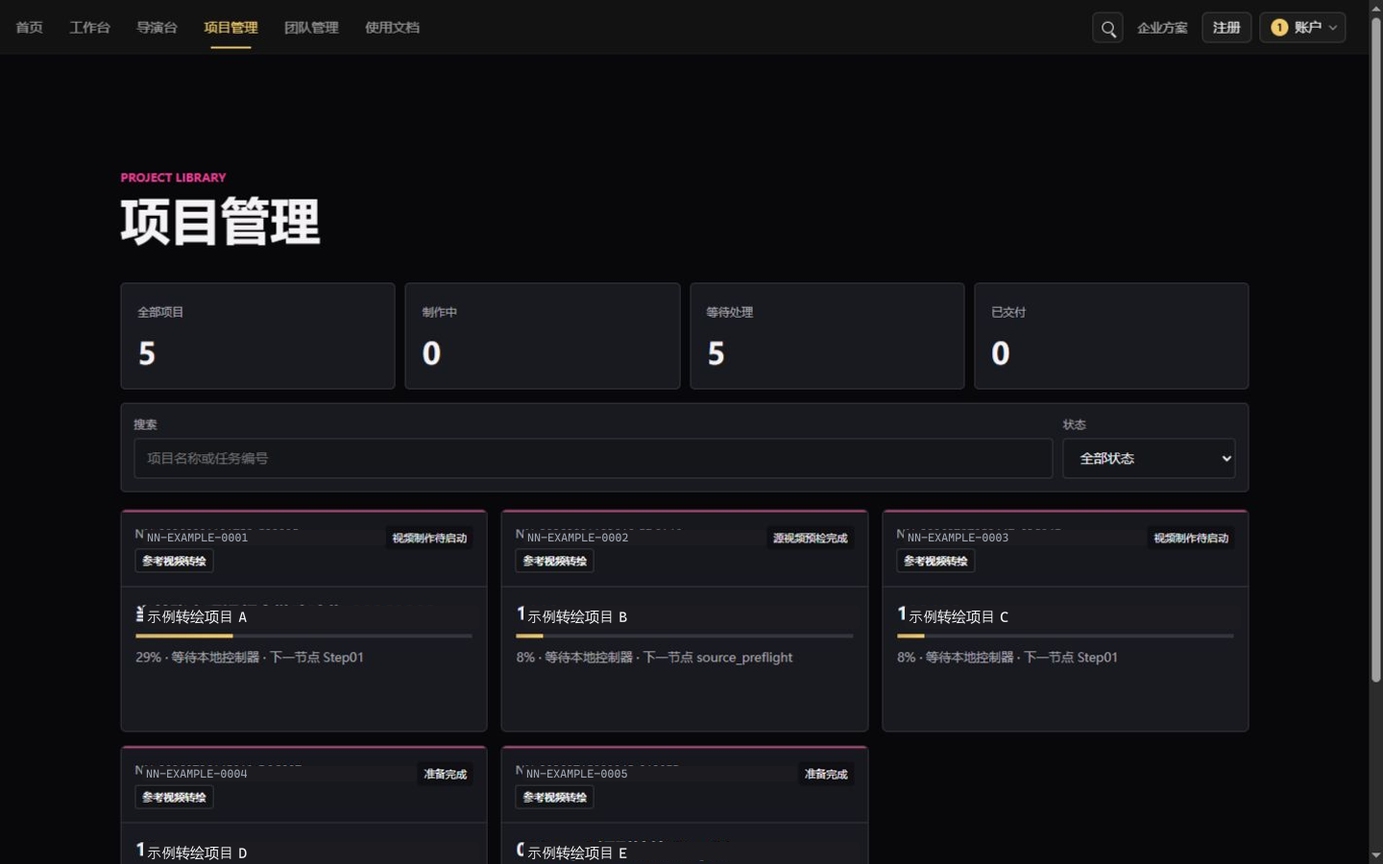
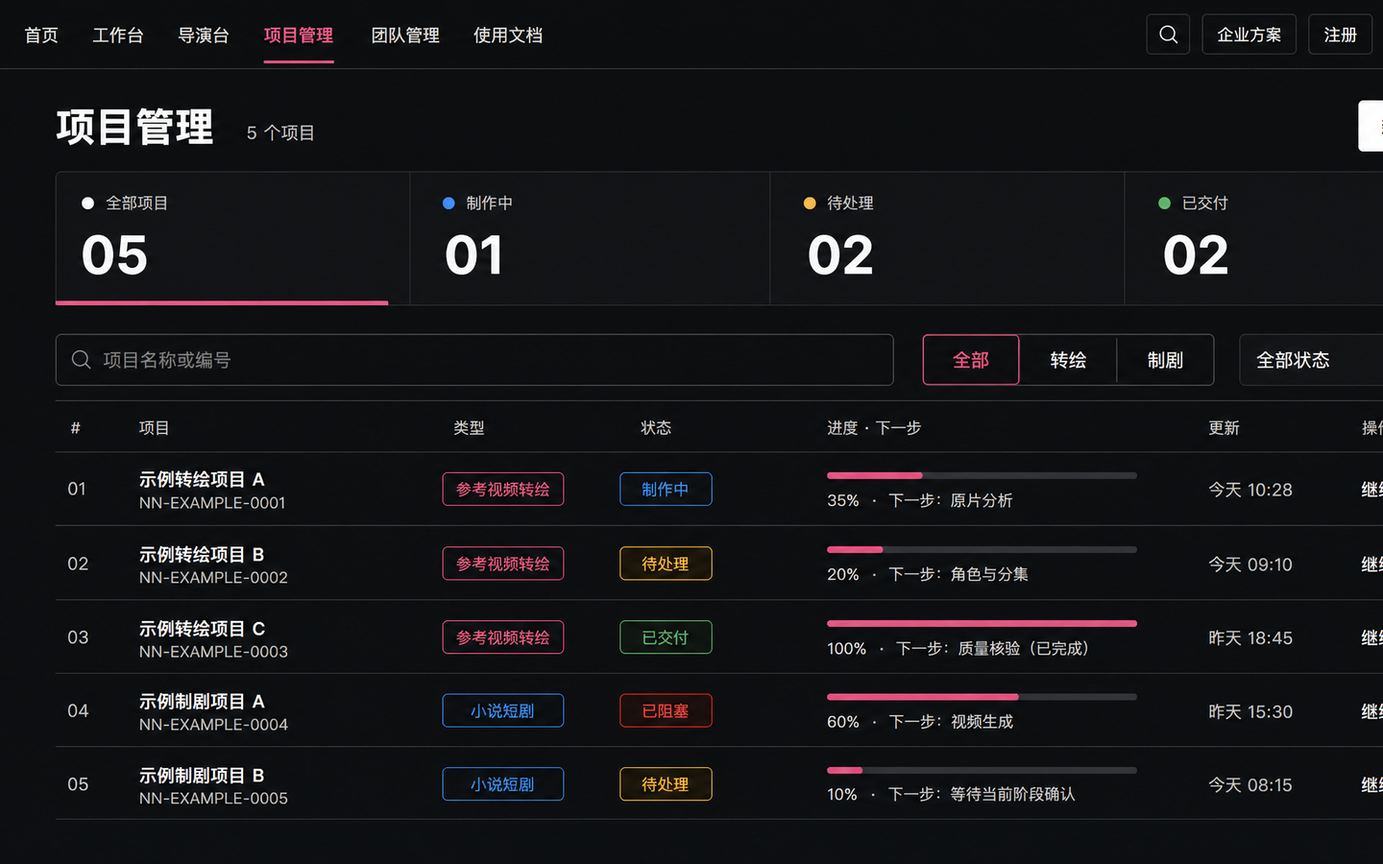
feat(frontend): redesign project management hub as production call-sheet board
- 项目库从通用 SaaS 卡片瀑布改为高密度生产通告单看板
- 紧凑头部 + 唯一主动作「新建项目」+ 真实项目总数
- 四段可点击生产计数条（全部/制作中/待处理/已交付）
- 毛线工具条：搜索 + 类型分段（全部/转绘/制剧）+ 状态筛选
- 通告单式行表：序号/身份/类型/状态点/细进度轨/业务下一步/更新时间/继续动作
- 状态与下一步改为业务语言，移除内部节点/渠道名词
- 桌面 1440x900 与移动 390x844 真实浏览器验证无横向溢出
- 01-project-hub 权威目标图由 yunfei-hd 2K 重绘入库
- 更新施工图阶段 3 状态与目标图对照表

Closes #60

diff --git a/product-system.css b/product-system.css
@@ -390,3 +390,126 @@ button:focus-visible, a:focus-visible, input:focus-visible, select:focus-visible
   .docs-quick-nav { overflow-x: auto; flex-wrap: nowrap; padding: 8px; }
   .docs-quick-nav button { flex: 0 0 auto; }
 }
+
+/* ============================================================
+ * Project hub r2 — production call-sheet board
+ * Hallmark · macrostructure: high-density production board · theme: system tokens
+ * Impeccable shape: Operate · variance 8 · motion 3 · density 8
+ * ============================================================ */
+:root {
+  --nn-status-running: #71a7ef;
+  --nn-status-ready: #5ecb91;
+  --nn-status-waiting: #e8b45c;
+  --nn-status-blocked: #ee6a6a;
+}
+
+.project-hub-shell { padding-top: 34px; }
+.project-hub-header { display: flex; align-items: flex-end; justify-content: space-between; gap: 16px 24px; margin-bottom: 22px; }
+.project-hub-title { display: flex; align-items: baseline; gap: 12px; min-width: 0; }
+.project-hub-title h2 { margin: 0; font-family: var(--nn-font-display); font-size: 30px; font-weight: 760; line-height: 1.1; letter-spacing: 0; }
+.project-hub-total { color: var(--nn-text-quiet); font-size: 13px; font-variant-numeric: tabular-nums; white-space: nowrap; }
+#projectHubTotal[hidden] { display: none !important; }
+.project-hub-actions { flex: 0 0 auto; }
+.project-new-button { min-height: 42px; padding: 0 16px; border-radius: 5px; background: #fff; color: #101114; font-size: 13px; font-weight: 650; box-shadow: none; }
+.project-new-button:hover, .project-new-button:focus-visible { background: #e9e7ea; color: #101114; }
+
+.project-count-strip { display: grid; grid-template-columns: repeat(4, minmax(0, 1fr)); margin-bottom: 14px; overflow: hidden; border: 1px solid var(--nn-line); border-radius: 6px; background: var(--nn-panel); }
+.pcs-item { position: relative; min-height: 88px; display: grid; align-content: center; gap: 8px; padding: 14px 20px; border: 0; border-right: 1px solid var(--nn-line); border-radius: 0; background: transparent; color: var(--nn-text-muted); text-align: left; transition: background-color 180ms ease; }
+.pcs-item:last-child { border-right: 0; }
+.pcs-item span { display: inline-flex; align-items: center; gap: 8px; color: var(--nn-text-muted); font-size: 12px; }
+.pcs-item span::before { content: ""; width: 7px; height: 7px; border-radius: 50%; background: var(--nn-text-quiet); }
+.pcs-item strong { color: var(--nn-text); font-family: var(--nn-font-display); font-size: 30px; font-weight: 650; line-height: 1; font-variant-numeric: tabular-nums; }
+.pcs-item:hover, .pcs-item:focus-visible { background: var(--nn-panel-raised); color: var(--nn-text); }
+.pcs-item.is-active { background: var(--nn-panel-raised); }
+.pcs-item.is-active::after { content: ""; position: absolute; right: 20px; bottom: 0; left: 20px; height: 2px; background: var(--nn-accent); }
+.pcs-item[data-count-filter="running"] span::before { background: var(--nn-status-running); }
+.pcs-item[data-count-filter="queued"] span::before { background: var(--nn-status-waiting); }
+.pcs-item[data-count-filter="completed"] span::before { background: var(--nn-status-ready); }
+.pcs-item[data-count-filter="all"] span::before { background: var(--nn-text); }
+
+.project-toolbar { display: flex; align-items: flex-end; gap: 10px; margin-bottom: 0; padding: 0 0 12px; border: 0; border-bottom: 1px solid var(--nn-line); border-radius: 0; background: transparent; }
+.project-search { position: relative; display: grid; gap: 0; flex: 1 1 320px; min-width: 220px; }
+.project-search-icon { position: absolute; top: 50%; left: 12px; transform: translateY(-50%); color: var(--nn-text-quiet); pointer-events: none; }
+.project-search input { width: 100%; height: 42px; padding: 0 13px 0 34px; border: 1px solid var(--nn-line); border-radius: 5px; background: var(--nn-panel); color: var(--nn-text); font-size: 14px; }
+.project-search input:focus { border-color: var(--nn-accent); }
+.project-filter { display: grid; gap: 7px; }
+.project-filter span { color: var(--nn-text-muted); font-size: 12px; }
+.project-filter select { height: 42px; min-width: 150px; padding: 0 30px 0 12px; border: 1px solid var(--nn-line); border-radius: 5px; background: var(--nn-panel); color: var(--nn-text); font-size: 14px; }
+.project-type-switch { display: inline-flex; align-items: center; gap: 2px; height: 42px; padding: 3px; border: 1px solid var(--nn-line); border-radius: 5px; background: var(--nn-panel); }
+.project-type-switch button { min-height: 34px; padding: 0 12px; border: 0; border-radius: 3px; background: transparent; color: var(--nn-text-muted); font-size: 13px; }
+.project-type-switch button:hover, .project-type-switch button:focus-visible { color: var(--nn-text); }
+.project-type-switch button.is-active { background: var(--nn-accent-soft); color: #fff; }
+.project-type-switch .project-type-source { position: absolute; width: 1px; height: 1px; padding: 0; margin: -1px; overflow: hidden; clip: rect(0, 0, 0, 0); white-space: nowrap; border: 0; }
+
+.project-board { display: grid; }
+.project-board > .public-access-panel { margin-top: 14px; }
+.project-board-head, .project-board-row { display: grid; grid-template-columns: 52px minmax(230px, 1.35fr) 112px 150px minmax(230px, 1.35fr) 92px 104px; gap: 10px; align-items: center; }
+.project-board-head { min-height: 40px; padding: 0 16px; border-bottom: 1px solid var(--nn-line); color: var(--nn-text-quiet); font-size: 11px; }
+.project-board-head span { overflow: hidden; text-overflow: ellipsis; white-space: nowrap; }
+.project-board-row { position: relative; min-height: 74px; width: 100%; margin: 0; padding: 0 16px; border: 0; border-bottom: 1px solid var(--nn-line); border-radius: 0; background: transparent; color: var(--nn-text); text-align: left; box-shadow: inset 0 0 0 0 transparent; transition: background-color 180ms ease, box-shadow 180ms ease; }
+.project-board-row:last-child { border-bottom: 0; }
+.project-board-row:hover, .project-board-row:focus-visible { background: var(--nn-panel-raised); box-shadow: inset 3px 0 0 var(--nn-accent); }
+.pbr-index { color: var(--nn-text-quiet); font-size: 12px; font-variant-numeric: tabular-nums; }
+.pbr-identity { display: grid; gap: 5px; min-width: 0; }
+.pbr-identity strong { overflow: hidden; color: var(--nn-text); font-size: 15px; font-weight: 650; line-height: 1.35; text-overflow: ellipsis; white-space: nowrap; }
+.pbr-identity small { overflow: hidden; color: var(--nn-text-quiet); font-size: 11px; font-variant-numeric: tabular-nums; text-overflow: ellipsis; white-space: nowrap; }
+.pbr-type { justify-self: start; padding: 4px 8px; border: 1px solid var(--nn-line-strong); border-radius: 4px; color: var(--nn-text-muted); font-size: 11px; white-space: nowrap; }
+.pbr-type.is-redraw { border-color: rgba(242, 59, 167, .38); color: #e79ac3; }
+.pbr-type.is-script { border-color: rgba(113, 167, 239, .38); color: #9ec2ef; }
+.pbr-status { justify-self: start; }
+.project-board .production-status-pill { min-height: 23px; padding: 0 8px; border-radius: 4px; font-size: 12px; font-variant-numeric: tabular-nums; }
+.project-board .production-status-pill.is-ready { border-color: rgba(94, 203, 145, .35); background: rgba(94, 203, 145, .12); color: var(--nn-status-ready); }
+.project-board .production-status-pill.is-running { border-color: rgba(113, 167, 239, .35); background: rgba(113, 167, 239, .12); color: var(--nn-status-running); }
+.project-board .production-status-pill.is-waiting { border-color: rgba(232, 180, 92, .35); background: rgba(232, 180, 92, .12); color: var(--nn-status-waiting); }
+.project-board .production-status-pill.is-blocked { border-color: rgba(238, 106, 106, .38); background: rgba(238, 106, 106, .12); color: var(--nn-status-blocked); }
+.pbr-progress { display: grid; gap: 7px; min-width: 0; }
+.pbr-rail { display: block; width: 100%; height: 4px; overflow: hidden; border-radius: 0; background: #34353d; }
+.pbr-rail i { display: block; height: 100%; background: var(--nn-status-running); }
+.project-board-row.is-row-complete .pbr-rail i { background: var(--nn-status-ready); }
+.project-board-row.is-row-waiting .pbr-rail i { background: var(--nn-status-waiting); }
+.project-board-row.is-row-blocked .pbr-rail i { background: var(--nn-status-blocked); }
+.pbr-progress small { overflow: hidden; color: var(--nn-text-muted); font-size: 12px; line-height: 1.45; text-overflow: ellipsis; white-space: nowrap; }
+.pbr-time { color: var(--nn-text-quiet); font-size: 12px; font-variant-numeric: tabular-nums; white-space: nowrap; }
+.pbr-action { justify-self: end; display: inline-flex; align-items: center; gap: 7px; color: var(--nn-text); font-size: 13px; font-weight: 500; white-space: nowrap; }
+.pbr-action b { color: var(--nn-accent); font-weight: 600; }
+.project-board-row:hover .pbr-action b, .project-board-row:focus-visible .pbr-action b { transform: translateX(2px); }
+
+.project-empty { min-height: 300px; display: grid; place-content: center; justify-items: center; gap: 10px; margin-top: 14px; padding: 40px 20px; border: 1px dashed var(--nn-line-strong); border-radius: 6px; color: var(--nn-text-muted); text-align: center; }
+.project-empty strong { color: var(--nn-text); font-size: 20px; }
+.project-empty span { max-width: 44ch; font-size: 13px; line-height: 1.6; }
+.project-empty-action { min-height: 40px; margin-top: 8px; padding: 0 14px; border-radius: 5px; background: var(--nn-accent); color: #fff; font-size: 13px; }
+.project-empty-action:hover, .project-empty-action:focus-visible { background: #e35492; }
+
+@media (max-width: 1080px) {
+  .project-board-head, .project-board-row { grid-template-columns: 44px minmax(200px, 1.2fr) 104px 140px minmax(200px, 1.2fr) 76px 92px; }
+}
+@media (max-width: 900px) {
+  .project-count-strip { grid-template-columns: repeat(2, minmax(0, 1fr)); }
+  .pcs-item:nth-child(2) { border-right: 0; }
+  .pcs-item:nth-child(-n + 2) { border-bottom: 1px solid var(--nn-line); }
+  .project-toolbar { flex-wrap: wrap; }
+}
+@media (max-width: 640px) {
+  .project-hub-shell { width: calc(100% - 28px); padding-top: 26px; }
+  .project-hub-header { align-items: center; }
+  .project-hub-title h2 { font-size: 25px; }
+  .project-hub-total { display: none; }
+  .project-new-button { min-height: 40px; padding: 0 13px; }
+  .project-toolbar { align-items: stretch; flex-direction: column; }
+  .project-search { flex: 1 1 auto; }
+  .project-filter, .project-filter select { width: 100%; }
+  .project-type-switch { align-self: stretch; }
+  .project-type-switch button { flex: 1 1 0; }
+  .project-board-head { display: none; }
+  .project-board-row { grid-template-columns: minmax(0, 1fr); grid-template-areas: "index identity" "type status" "progress progress" "time time" "action action"; gap: 9px; align-items: start; padding: 16px 4px; }
+  .pbr-index { grid-area: index; padding-top: 2px; }
+  .pbr-identity { grid-area: identity; }
+  .pbr-type { grid-area: type; }
+  .pbr-status { grid-area: status; justify-self: end; }
+  .pbr-progress { grid-area: progress; }
+  .pbr-progress small { white-space: normal; }
+  .pbr-time { grid-area: time; }
+  .pbr-action { grid-area: action; min-height: 42px; justify-content: center; width: 100%; margin-top: 2px; border: 1px solid var(--nn-line-strong); border-radius: 5px; background: var(--nn-panel); }
+  .pbr-action b { transform: none; }
+  .project-empty { min-height: 260px; }
+}

diff --git a/mvp-step02-r13.js b/mvp-step02-r13.js
@@ -704,6 +704,8 @@
       queued: allProjects.filter(project => statusBucket(project) === 'queued').length,
       completed: allProjects.filter(project => statusBucket(project) === 'completed').length
     };
+    const hubTotal = document.getElementById('projectHubTotal');
+    if (hubTotal) hubTotal.textContent = counts.total + ' 个项目';
     Object.entries(counts).forEach(([key, value]) => {
       const node = document.querySelector('[data-summary="' + key + '"]');
       if (node) node.textContent = value;
@@ -716,6 +718,8 @@
     if (projectSummary) projectSummary.hidden = signedOut;
     if (projectToolbar) projectToolbar.hidden = signedOut;
     if (projectCreateActions) projectCreateActions.hidden = signedOut;
+    const hubTotal = document.getElementById('projectHubTotal');
+    if (hubTotal) hubTotal.hidden = signedOut;
     if (signedOut) {
       list.innerHTML = '<section class="public-access-panel public-project-access" aria-label="项目库访问说明"><div class="public-access-copy"><span class="eyebrow">PRIVATE PROJECT LIBRARY</span><h3>登录后管理你的项目</h3><p>登录后查看当前账户的短剧项目、制作状态和交付版本。</p><div class="public-access-actions"><button class="page-action" type="button" data-open-auth-login>登录进入项目库</button><button class="workbench-quiet-action" type="button" data-view="workbench">先选择制作路径</button></div></div><dl class="public-access-facts"><div><dt>项目</dt><dd>按当前工作区隔离</dd></div><div><dt>进度</dt><dd>只显示真实制作状态</dd></div><div><dt>交付</dt><dd>通过质量门后可下载</dd></div></dl></section>';
       return;
@@ -739,31 +743,84 @@
       return matchesText && matchesType && matchesStatus;
     });
     if (!rows.length) {
-      list.innerHTML = '<div class="project-empty"><strong>还没有匹配的项目</strong><span>创建项目后，它会出现在这里并从当前质量门继续。</span></div>';
+      const filtered = Boolean(query || selected !== 'all' || selectedType !== 'all');
+      list.innerHTML = filtered
+        ? '<div class="project-empty"><strong>没有匹配当前筛选的项目</strong><span>调整搜索或筛选条件后重试。</span><button class="project-empty-action" type="button" data-project-clear-filter>清除筛选</button></div>'
+        : '<div class="project-empty"><strong>还没有项目</strong><span>创建项目后，它会出现在这里并从当前质量门继续。</span><button class="project-empty-action" type="button" data-view="workbench">去创建第一个项目</button></div>';
       renderSummary();
       return;
     }
-    list.innerHTML = rows.map(project => {
+    syncProjectCountStrip(selected);
+    syncProjectTypeSwitch(selectedType);
+    list.innerHTML = '<div class="project-board-head" aria-hidden="true"><span>#</span><span>项目</span><span>类型</span><span>状态</span><span>进度 · 下一步</span><span>更新</span><span></span></div>' + rows.map((project, index) => {
       const runtime = project.runtime || {};
       const isScript = project.projectKind === 'script';
       const scriptStage = Number(scriptStageForNode(runtime.currentNode, runtime.earliestIncompleteNode));
       const progress = isScript ? Math.max(0, (scriptStage - 1) * 25) : stepProgress(project);
       const projectStatus = projectStatusLabel(project);
-      const sourceSummary = isScript
-        ? (project.source?.type === 'docx' ? (project.source.originalName || 'Word 剧本') : '小说或剧本文本')
-        : (project.replacementBrief || '');
-      const nextNode = isScript
-        ? (runtime.currentNode || runtime.earliestIncompleteNode || 'N00')
-        : (project.route?.earliestNode || runtime.currentNode || 'Step01');
+      const semanticStatus = String(project.autoRedraw?.status || project.runtime?.productionStatus || project.status || '').toLowerCase();
+      const rowTone = /completed|accepted|sent|verified/.test(semanticStatus) ? 'is-row-complete'
+        : (/blocked|failed|infra_failed/.test(semanticStatus) ? 'is-row-blocked'
+          : (/running|claimed|sync|qa_running/.test(semanticStatus) ? 'is-row-running' : 'is-row-waiting'));
+      const pillTone = rowTone === 'is-row-complete' ? 'is-ready'
+        : (rowTone === 'is-row-blocked' ? 'is-blocked'
+          : (rowTone === 'is-row-running' ? 'is-running' : 'is-waiting'));
       const cardAction = isScript ? 'data-script-project-id' : 'data-project-id';
+      const kind = isScript ? 'script' : 'redraw';
+      const stageId = isScript ? String(scriptStage).padStart(2, '0') : redrawStageForProject(project);
+      const stageLabel = (productionStageDefinitions(kind).find(stage => stage.id === stageId) || {}).label || '';
+      const nextAction = humanizeProjectNextAction(runtime.nextAction, isScript ? '等待当前阶段确认。' : '等待当前质量门给出下一步。');
+      const fallbackText = isScript ? '等待当前阶段确认。' : '等待当前质量门给出下一步。';
       const stageSummary = isScript
-        ? '第 ' + String(scriptStage).padStart(2, '0') + ' 阶段 / 04 · ' + (productionStageDefinitions('script').find(stage => stage.id === String(scriptStage).padStart(2, '0'))?.label || '等待阶段')
-        : progress + '% · ' + dispatchLabel(project.dispatch?.status) + ' · 下一节点 ' + nextNode;
-      return '<button class="live-project-card' + (isScript ? ' is-script-project' : ' is-redraw-project') + '" type="button" ' + cardAction + '="' + escapeHtml(project.id) + '">' +
-        '<div class="project-card-visual"><span class="project-card-id">' + escapeHtml(project.id) + '</span><span class="project-card-type">' + (isScript ? '小说短剧' : '参考视频转绘') + '</span><span class="project-card-badge">' + escapeHtml(projectStatus) + '</span></div>' +
-        '<div class="project-card-body"><h3>' + escapeHtml(project.name) + '</h3>' + (sourceSummary ? '<p>' + escapeHtml(sourceSummary) + '</p>' : '') + '<div class="project-progress"><span style="width:' + progress + '%"></span></div><p>' + escapeHtml(stageSummary) + '</p></div></button>';
+        ? '阶段 ' + String(scriptStage).padStart(2, '0') + ' / 04 · ' + stageLabel
+        : progress + '% · ' + stageLabel;
+      const progressDetail = stageSummary + (nextAction && nextAction !== fallbackText ? ' · ' + nextAction : '');
+      return '<button class="project-board-row' + (isScript ? ' is-script-project' : ' is-redraw-project') + rowTone + '" type="button" ' + cardAction + '="' + escapeHtml(project.id) + '" aria-label="继续制作：' + escapeHtml(project.name) + '">' +
+        '<span class="pbr-index">' + String(index + 1).padStart(2, '0') + '</span>' +
+        '<span class="pbr-identity"><strong>' + escapeHtml(project.name) + '</strong><small>' + escapeHtml(project.id) + '</small></span>' +
+        '<span class="pbr-type' + (isScript ? ' is-script' : ' is-redraw') + '">' + (isScript ? '小说短剧' : '参考视频转绘') + '</span>' +
+        '<span class="pbr-status"><span class="production-status-pill ' + pillTone + '">' + escapeHtml(projectStatus) + '</span></span>' +
+        '<span class="pbr-progress"><i class="pbr-rail" aria-hidden="true"><i style="width:' + Number(progress) + '%"></i></i><small>' + escapeHtml(progressDetail) + '</small></span>' +
+        '<time class="pbr-time">' + escapeHtml(compactProjectTime(project.updatedAt || project.createdAt)) + '</time>' +
+        '<span class="pbr-action">继续制作 <b aria-hidden="true">&#8594;</b></span>' +
+      '</button>';
     }).join('');
     renderSummary();
+  }
+
+  function syncProjectCountStrip(selected) {
+    const strip = document.getElementById('projectSummary');
+    if (!strip) return;
+    strip.querySelectorAll('[data-count-filter]').forEach(item => {
+      const isActive = item.dataset.countFilter === selected;
+      item.classList.toggle('is-active', isActive);
+      item.setAttribute('aria-pressed', String(isActive));
+    });
+  }
+
+  function syncProjectTypeSwitch(selectedType) {
+    const switchBox = document.querySelector('.project-type-switch');
+    if (!switchBox) return;
+    switchBox.querySelectorAll('[data-project-type]').forEach(item => {
+      const isActive = item.dataset.projectType === selectedType;
+      item.classList.toggle('is-active', isActive);
+      item.setAttribute('aria-pressed', String(isActive));
+    });
+  }
+
+  function compactProjectTime(value) {
+    if (!value) return '—';
+    const date = new Date(value);
+    if (Number.isNaN(date.getTime())) return '—';
+    const now = new Date();
+    const pad = number => String(number).padStart(2, '0');
+    const sameDay = date.toDateString() === now.toDateString();
+    if (sameDay) return '今天 ' + pad(date.getHours()) + ':' + pad(date.getMinutes());
+    const yesterday = new Date(now);
+    yesterday.setDate(now.getDate() - 1);
+    if (date.toDateString() === yesterday.toDateString()) return '昨天 ' + pad(date.getHours()) + ':' + pad(date.getMinutes());
+    const thisYear = date.getFullYear() === now.getFullYear();
+    return (thisYear ? '' : date.getFullYear() + '/') + pad(date.getMonth() + 1) + '-' + pad(date.getDate());
   }
 
   function escapeHtml(value) {
@@ -4527,6 +4584,26 @@
   search?.addEventListener('input', renderProjects);
   filter?.addEventListener('change', renderProjects);
   projectTypeFilter?.addEventListener('change', renderProjects);
+  document.querySelector('.project-count-strip')?.addEventListener('click', event => {
+    const item = event.target.closest('[data-count-filter]');
+    if (!item || !filter) return;
+    filter.value = item.dataset.countFilter;
+    renderProjects();
+  });
+  document.querySelector('.project-type-switch')?.addEventListener('click', event => {
+    const item = event.target.closest('[data-project-type]');
+    if (!item || !projectTypeFilter) return;
+    projectTypeFilter.value = item.dataset.projectType;
+    renderProjects();
+  });
+  document.querySelector('.project-board')?.addEventListener('click', event => {
+    const clear = event.target.closest('[data-project-clear-filter]');
+    if (!clear) return;
+    if (search) search.value = '';
+    if (filter) filter.value = 'all';
+    if (projectTypeFilter) projectTypeFilter.value = 'all';
+    renderProjects();
+  });
 
   form?.addEventListener('submit', async event => {
     event.preventDefault();

diff --git a/index.html b/index.html
@@ -84,28 +84,40 @@
       </section>
 
       <section class="workspace view" data-view-panel="projects">
-        <div class="product-shell">
-          <header class="product-heading">
-            <div>
-              <span class="eyebrow">PROJECT LIBRARY</span>
+        <div class="product-shell project-hub-shell">
+          <header class="project-hub-header">
+            <div class="project-hub-title">
               <h2>项目管理</h2>
-              <p>在同一处查看当前账户的短剧项目与真实制作状态。</p>
+              <span class="project-hub-total" id="projectHubTotal">0 个项目</span>
+            </div>
+            <div class="project-hub-actions">
+              <button class="project-new-button" type="button" data-view="workbench">新建项目</button>
             </div>
           </header>
 
-          <div class="project-summary" id="projectSummary">
-            <article><span>全部项目</span><strong data-summary="total">0</strong></article>
-            <article><span>制作中</span><strong data-summary="active">0</strong></article>
-            <article><span>等待处理</span><strong data-summary="queued">0</strong></article>
-            <article><span>已交付</span><strong data-summary="completed">0</strong></article>
+          <div class="project-count-strip" id="projectSummary" role="group" aria-label="项目状态统计">
+            <button class="pcs-item is-active" type="button" data-count-filter="all" aria-pressed="true"><span>全部项目</span><strong data-summary="total">0</strong></button>
+            <button class="pcs-item" type="button" data-count-filter="running" aria-pressed="false"><span>制作中</span><strong data-summary="active">0</strong></button>
+            <button class="pcs-item" type="button" data-count-filter="queued" aria-pressed="false"><span>待处理</span><strong data-summary="queued">0</strong></button>
+            <button class="pcs-item" type="button" data-count-filter="completed" aria-pressed="false"><span>已交付</span><strong data-summary="completed">0</strong></button>
           </div>
 
-          <div class="project-toolbar">
-            <label class="project-search"><span>搜索</span><input id="projectSearch" type="search" placeholder="项目名称或任务编号"></label>
-            <label class="project-filter"><span>状态</span><select id="projectStatusFilter"><option value="all">全部状态</option><option value="queued">等待处理</option><option value="running">制作中</option><option value="completed">已完成</option><option value="blocked">已阻塞</option></select></label>
+          <div class="project-toolbar" id="projectToolbar">
+            <label class="project-search">
+              <svg class="project-search-icon" width="14" height="14" viewBox="0 0 24 24" fill="none" stroke="currentColor" stroke-width="2" aria-hidden="true"><circle cx="11" cy="11" r="7"/><path d="m20 20-3.5-3.5"/></svg>
+              <span class="sr-only">搜索项目</span>
+              <input id="projectSearch" type="search" placeholder="项目名称或编号">
+            </label>
+            <div class="project-type-switch" role="group" aria-label="项目类型筛选">
+              <button class="is-active" type="button" data-project-type="all">全部</button>
+              <button type="button" data-project-type="redraw">转绘</button>
+              <button type="button" data-project-type="script">制剧</button>
+              <select id="projectTypeFilter" class="project-type-source" tabindex="-1" aria-hidden="true"><option value="all">全部</option><option value="redraw">转绘</option><option value="script">制剧</option></select>
+            </div>
+            <label class="project-filter"><span>状态</span><select id="projectStatusFilter"><option value="all">全部状态</option><option value="queued">待处理</option><option value="running">制作中</option><option value="completed">已交付</option><option value="blocked">已阻塞</option></select></label>
           </div>
 
-          <div class="project-grid project-grid-live" id="projectList" aria-live="polite"></div>
+          <div class="project-board" id="projectList" aria-live="polite"></div>
         </div>
       </section>
 

diff --git a/docs/frontend-targets/comparison-20260810.md b/docs/frontend-targets/comparison-20260810.md
@@ -7,17 +7,20 @@
 
 ## 渠道说明
 
-本地可用 Image2 渠道仅 `yunfei-1k`（1024×1024 方图），不符合权威目标图
-1440×900 / 390×844 尺寸门；Krill/meinianda 渠道无本地可用密钥。按计划
-回退为“真实截图 + 标注”方案：目标图即当前真实实现页面，结构、品牌、
-文案与可见控件保持原样，不虚构能力。
+`yunfei-hd` 2K 渠道已配置（2048×1152 / 3840×2160）。项目管理目标图
+`01-project-hub-desktop.png` 已于 2026-08-10 由新实现真实页面截图经
+`yunfei-hd` 图生图重绘为 2K 源图，再缩放到 1440×900 入库；其余目标图
+仍为“真实截图 + 标注”方案，结构、品牌、文案与可见控件保持原样，不
+虚构能力。2K 源图为 16:9，权威视口为 16:10（1440×900），入库时按
+左对齐裁剪以保留完整六项导航；右侧账户区与操作列末端为裁剪取舍，不
+代表实现缺失。
 
 ## 对照表
 
 | 目标图 | 真实来源（2026-08-10） | 视口 | 现状关键点 | 目标提升点 |
 | --- | --- | --- | --- | --- |
 | 00-home-desktop.png | `https://ai.cauai.fun/#home` | 1440×900 | 首页保持现状；权威基线为 `authority/approved/homepage/r11-1440.png` | 不参与 Image2 重绘；主 CTA 进入工作台 |
-| 01-project-hub-desktop.png | `https://ai.cauai.fun/#projects` | 1440×900 | 统计 5/0/5/0；列表 5 个转绘项目（示例名）；搜索与状态筛选 | 已与统计一致；移动端长列表状态标签不换行 |
+| 01-project-hub-desktop.png | 新实现本地验证页 `/#projects`（Issue #60，桌面 1440×900） | 1440×900 | 生产通告单看板：四段可点击计数条、毛线工具条、通告单式行表（序号/身份/类型/状态/细进度/业务下一步/更新时间/继续动作）；示例数据 NN-EXAMPLE-0001~0005 | 已由 `yunfei-hd` 2K 重绘入库；蓝色=制作中、琥珀=待处理、绿色=已交付、红色=阻塞；无内部节点/渠道名词 |
 | 02-studio-canvas-desktop.png | `https://ai.cauai.fun/studio/#/studio?projectId=NN-web-3cb455a8ead644a1a9268e4d820a6b1d` | 1440×900 | 顶部导航、左侧工具、中央画布、文本节点与生成按钮 | 保持画布结构与节点输入完整性表达 |
 | 03-generation-inspector-desktop.png | 同一 Studio 画布（生成区） | 1440×900 | 画布内生成检查器与文本结果 | 结果播放/采用/重试按阶段 1 目标图补充 |
 | 04-asset-library-desktop.png | 同一 Studio 画布（素材库面板） | 1440×900 | 素材库面板：全部素材/项目素材/智能分组/上传/空状态 | 保留空状态；有素材时显示使用引用 |

diff --git a/FRONTEND_EXECUTION_PLAN.md b/FRONTEND_EXECUTION_PLAN.md
@@ -35,7 +35,7 @@
 | 0.5. 主站导航与工作台四模块 | 六项导航可用，四个创作入口可进入并在真实状态上继续 | 06 | 已完成 |
 | 1. 生成闭环 | 单个镜头可检查、生成、预览、采用、重试 | 02、03 | 下一阶段 |
 | 2. 素材真相 | 素材可查、可复用、可追踪到镜头和节点 | 04 | 未开始 |
-| 3. 项目控制中心 | 从项目库识别状态并继续正确任务 | 01 | 未开始 |
+| 3. 项目控制中心 | 从项目库识别状态并继续正确任务 | 01 | 进行中（项目库通告单看板） |
 | 4. 移动端连续性 | 手机可查看结果并完成关键确认 | 05 | 未开始 |
 | 5. 完整转绘短剧验收 | 从真实输入连续推进到可下载成片 | 00-08 + 现有 Step01-Step04 | 未开始 |
 
@@ -48,6 +48,7 @@
 - 项目管理列表与统计一致：当前账户 5 个转绘项目全部可见（此前列表只渲染小说项目导致统计 5/列表空，已修复），搜索与状态筛选可用。
 - 线上四个关键文件（index.html、sw.js、mvp-step02-r13.js、product-system.css）与本地 main 哈希一致；服务健康接口正常。
 - 交付记录：PR #52（六项导航与一级页）、PR #54（项目管理列表修复）、PR #55（app-shell 缓存版本升级）。
+- 阶段 3 进行中：项目管理页已重做为“生产通告单”看板（紧凑头部+唯一主动作、四段可点击计数条、类型分段+状态筛选、通告单式行表），本地真实浏览器已验证桌面 1440×900 与移动 390×844 无横向溢出，搜索/筛选/继续动作通过；目标图已由 yunfei-hd 2K 重绘入库。
 
 本地 main 是当前唯一发布基线；团队管理与使用文档的一级页已上线，目标内容与后端能力仍按阶段 0.5 待产品确认后补充。
 
